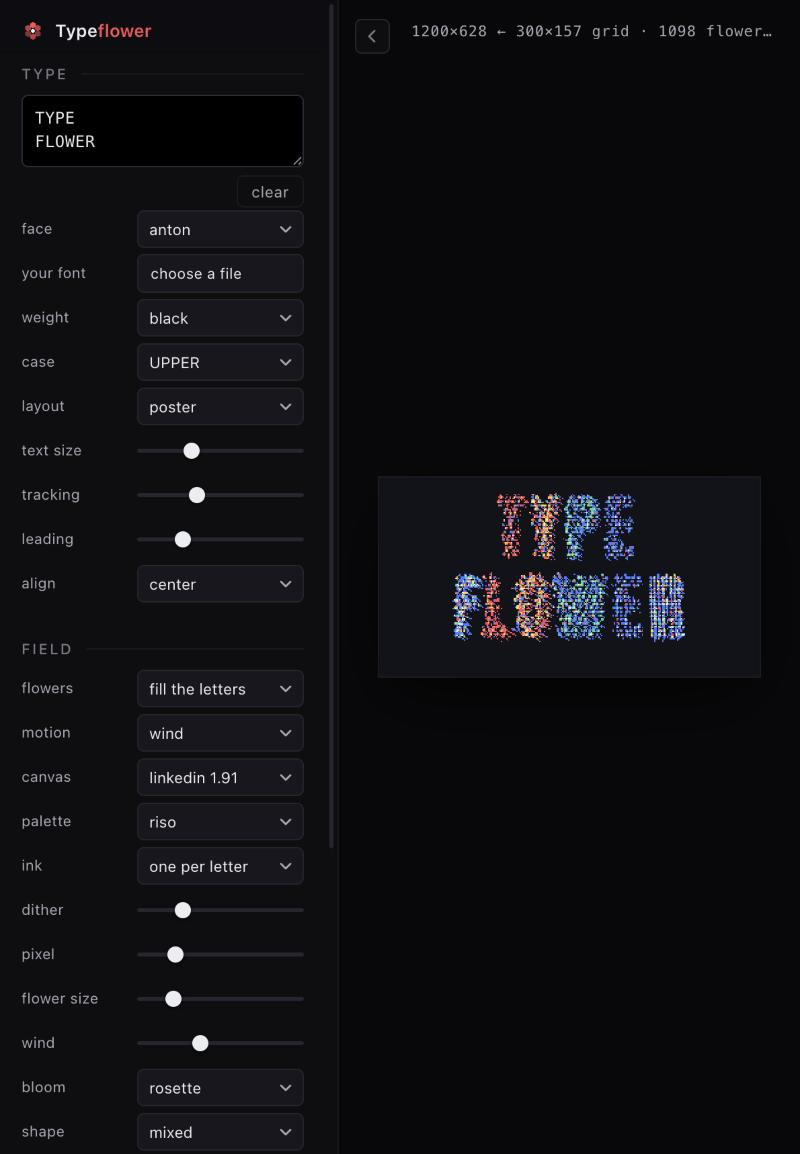
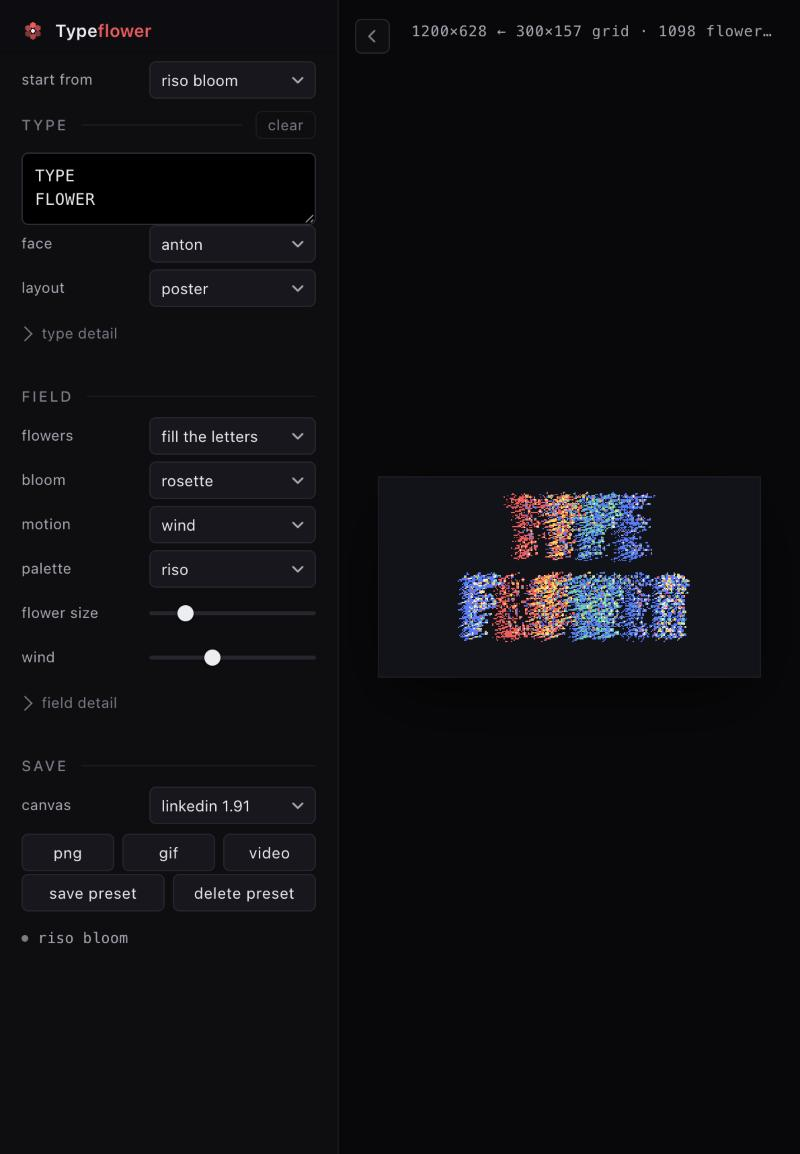
Simplify the panel: eleven decisions, the rest on request
Twenty-four controls were visible at once, which made a tool for making
posters read as a settings screen.

- a preset picker leads the panel, so the opening move is one choice
- type keeps text, face and layout; field keeps flowers, bloom, motion,
  palette, flower size and wind
- everything else moved into two native disclosures, "type detail" and
  "field detail", closed by default
- canvas size joined the export block, where it decides the output
- clear folded into the type heading instead of owning a row
- the empty preset option says "a preset…" rather than a bare dash

The panel now fits without scrolling. No control was removed, and presets
still read and write every one of them.

diff --git a/index.html b/index.html
@@ -89,7 +89,8 @@
   #ui h2 { display: flex; align-items: center; gap: 10px;
     margin: 24px 0 10px; font: 500 11px/1 var(--ui); letter-spacing: .14em;
     text-transform: uppercase; color: var(--fg-3); }
-  #ui h2::after { content: ""; flex: 1; height: 1px; background: var(--line-soft); }
+  #ui h2::after { content: ""; order: 1; flex: 1; height: 1px; background: var(--line-soft); }
+  #ui h2 button { order: 2; }
   #ui h2:first-of-type { margin-top: 4px; }
 
   #ui label { display: grid; grid-template-columns: 1fr 140px; gap: 10px;
@@ -124,10 +125,9 @@
   #pdel:hover:not([disabled]) { color: var(--accent); border-color: var(--accent-soft); }
   .btns { display: grid; grid-template-columns: 1fr 1fr; gap: 6px; margin-top: 2px; }
   .btns.three { grid-template-columns: repeat(3, 1fr); }
-  .btns.end { grid-template-columns: auto; justify-content: end; margin: 6px 0 2px; }
-  .btns.end button { height: 24px; padding: 0 10px; color: var(--fg-2);
-    background: transparent; border-color: var(--line-soft); }
-  .btns.end button:hover { color: var(--fg); background: var(--raised); }
+  #ui h2 button { height: 21px; padding: 0 8px; font-size: 11px; color: var(--fg-3);
+    background: transparent; border-color: var(--line-soft); letter-spacing: .02em;
+    text-transform: none; }
 
   #tap { width: 100%; min-height: 54px; padding: 8px 9px; resize: vertical;
     font: 12px/1.45 var(--mono); letter-spacing: .02em; caret-color: var(--accent);
@@ -161,6 +161,20 @@
 
   input[type=checkbox] { justify-self: start; width: 15px; height: 15px; margin: 0;
     accent-color: var(--accent); cursor: pointer; }
+
+  /* ---------- disclosure ---------- */
+  details { margin: 2px 0 4px; }
+  summary { display: flex; align-items: center; gap: 7px; height: 26px; cursor: pointer;
+    list-style: none; color: var(--fg-3); font-size: 11px; letter-spacing: .01em;
+    transition: color .14s var(--ease); }
+  summary::-webkit-details-marker { display: none; }
+  summary::before { content: ""; width: 7px; height: 7px; border-right: 1.3px solid currentColor;
+    border-bottom: 1.3px solid currentColor; transform: rotate(-45deg) translate(-1px, -1px);
+    transition: transform .18s var(--ease); }
+  details[open] summary::before { transform: rotate(45deg) translate(-1px, -1px); }
+  details[open] summary { color: var(--fg-2); }
+  details > label:first-of-type { margin-top: 4px; }
+  .lead { margin-bottom: 10px; }
 
   /* ---------- status ---------- */
   #status { display: flex; align-items: center; gap: 7px; min-height: 16px; margin-top: 12px;
@@ -228,65 +242,72 @@
     </svg>
     <b>Type<i>flower</i></b>
   </div>
-  <h2>type</h2>
+  <label class="lead" title="Load a saved look, then make it yours">start from <select id="preset"></select></label>
+
+  <h2>type <button id="clear" title="Empty the text">clear</button></h2>
     <textarea id="tap" rows="2" placeholder="type here…" autocomplete="off" spellcheck="false"></textarea>
-    <div class="btns end"><button id="clear" title="Empty the text">clear</button></div>
     <label title="Typeface used to set the text">face <select id="face"></select></label>
-    <label title="Load a font from your machine — or drop one anywhere on the page">your font
-      <span class="file"><span id="fontname">choose a file</span>
-        <input id="fontfile" type="file" accept=".ttf,.otf,.woff,.woff2,font/*" multiple></span></label>
-    <label>weight <select id="weight">
-      <option value="400">regular</option><option value="700">bold</option>
-      <option value="900" selected>black</option></select></label>
-    <label>case <select id="case">
-      <option value="upper">UPPER</option><option value="as">as typed</option>
-      <option value="lower">lower</option></select></label>
     <label title="Poster fits one or two lines to the canvas; paragraph wraps a block of text">layout <select id="layout">
       <option value="poster">poster</option><option value="para">paragraph</option></select></label>
-    <label title="Text size, used in paragraph layout (poster layout fits to the canvas)">text size <input id="tsize" type="range" min="3" max="16" step="1" value="7"></label>
-    <label title="Letter-spacing">tracking <input id="track" type="range" min="-8" max="30" step="1" value="5"></label>
-    <label title="Line height">leading <input id="lead" type="range" min="80" max="200" step="5" value="108"></label>
-    <label>align <select id="align">
-      <option value="center">center</option><option value="left">left</option>
-      <option value="right">right</option></select></label>
+    <details>
+      <summary>type detail</summary>
+      <label title="Load a font from your machine — or drop one anywhere on the page">your font
+        <span class="file"><span id="fontname">choose a file</span>
+          <input id="fontfile" type="file" accept=".ttf,.otf,.woff,.woff2,font/*" multiple></span></label>
+      <label>weight <select id="weight">
+        <option value="400">regular</option><option value="700">bold</option>
+        <option value="900" selected>black</option></select></label>
+      <label>case <select id="case">
+        <option value="upper">UPPER</option><option value="as">as typed</option>
+        <option value="lower">lower</option></select></label>
+      <label>align <select id="align">
+        <option value="center">center</option><option value="left">left</option>
+        <option value="right">right</option></select></label>
+      <label title="Text size, used in paragraph layout (poster layout fits to the canvas)">text size <input id="tsize" type="range" min="3" max="16" step="1" value="7"></label>
+      <label title="Letter-spacing">tracking <input id="track" type="range" min="-8" max="30" step="1" value="5"></label>
+      <label title="Line height">leading <input id="lead" type="range" min="80" max="200" step="5" value="108"></label>
+    </details>
+
   <h2>field</h2>
     <label title="Grow flowers inside the letters, or fill the canvas and cut the letters out of it">flowers <select id="mode">
       <option value="bloom">fill the letters</option><option value="knock">cut letters out</option></select></label>
-    <label title="How the flowers move. Every preset keeps some wind in it">motion <select id="motion">
-      <option value="wind">wind</option><option value="wave">wave</option>
-      <option value="bounce">bounce</option><option value="swirl">swirl</option>
-      <option value="jitter">jitter</option><option value="storm">storm</option></select></label>
-    <label title="Output size. Exports render at this size, whatever the window">canvas <select id="size"></select></label>
-    <label>palette <select id="pal"></select></label>
-    <label title="How palette colours are handed out. One per letter reads best">ink <select id="ink">
-      <option value="scatter">scatter</option><option value="letter">one per letter</option>
-      <option value="flow">across the line</option></select></label>
-    <label title="0 keeps letter edges clean; 100 stipples them with the full dither pattern">dither <input id="crisp" type="range" min="0" max="100" step="5" value="30"></label>
-    <label title="Size of one dithered pixel in the export">pixel <input id="pix" type="range" min="1" max="6" step="1" value="2"></label>
-    <label title="Spacing of the flower grid — bigger means fewer, larger flowers">flower size <input id="cell" type="range" min="4" max="20" step="1" value="7"></label>
-    <label title="Strength of the wind, and of every motion built on it">wind <input id="wind" type="range" min="0" max="30" step="1" value="11"></label>
     <label title="How each flower is built. Seed is a single mark and reads best on a fine grid">bloom <select id="bloom">
       <option value="daisy">daisy</option><option value="aster">aster</option>
       <option value="tulip">tulip</option><option value="berry">berry</option>
       <option value="rosette">rosette</option><option value="seed">seed</option>
       <option value="mix">mixed</option></select></label>
-    <label title="Geometry of the petals">shape <select id="shape">
-      <option value="mix">mixed</option><option value="3">triangle</option>
-      <option value="4">square</option><option value="6">hexagon</option>
-      <option value="0">round</option></select></label>
-    <label title="Draw a stem under each flower">stems <input id="stems" type="checkbox" checked></label>
-    <label title="Ring each flower in the background colour so neighbours stay separate">halo <input id="halo" type="checkbox" checked></label>
-  <h2>presets</h2>
-    <label title="Load a saved look. Your own presets are stored in this browser">preset <select id="preset"></select></label>
-    <div class="btns">
-      <button id="psave" title="Save every control as a named preset">save as…</button>
-      <button id="pdel" title="Delete the selected preset">delete</button>
-    </div>
-  <h2>export</h2>
+    <label title="How the flowers move. Every preset keeps some wind in it">motion <select id="motion">
+      <option value="wind">wind</option><option value="wave">wave</option>
+      <option value="bounce">bounce</option><option value="swirl">swirl</option>
+      <option value="jitter">jitter</option><option value="storm">storm</option></select></label>
+    <label>palette <select id="pal"></select></label>
+    <label title="Spacing of the flower grid — bigger means fewer, larger flowers">flower size <input id="cell" type="range" min="4" max="20" step="1" value="7"></label>
+    <label title="Strength of the wind, and of every motion built on it">wind <input id="wind" type="range" min="0" max="30" step="1" value="11"></label>
+    <details>
+      <summary>field detail</summary>
+      <label title="How palette colours are handed out. One per letter reads best">ink <select id="ink">
+        <option value="scatter">scatter</option><option value="letter">one per letter</option>
+        <option value="flow">across the line</option></select></label>
+      <label title="Geometry of the petals">shape <select id="shape">
+        <option value="mix">mixed</option><option value="3">triangle</option>
+        <option value="4">square</option><option value="6">hexagon</option>
+        <option value="0">round</option></select></label>
+      <label title="0 keeps letter edges clean; 100 stipples them with the full dither pattern">dither <input id="crisp" type="range" min="0" max="100" step="5" value="30"></label>
+      <label title="Size of one dithered pixel in the export">pixel <input id="pix" type="range" min="1" max="6" step="1" value="2"></label>
+      <label title="Draw a stem under each flower">stems <input id="stems" type="checkbox" checked></label>
+      <label title="Ring each flower in the background colour so neighbours stay separate">halo <input id="halo" type="checkbox" checked></label>
+    </details>
+
+  <h2>save</h2>
+    <label title="Output size. Exports render at this size, whatever the window">canvas <select id="size"></select></label>
     <div class="btns three">
       <button id="save" title="Save a still at the canvas size">png</button>
       <button id="gif" title="Record a looping gif, about 2.3 seconds">gif</button>
       <button id="vid" title="Record 5 seconds of mp4, or webm where mp4 is unsupported">video</button>
+    </div>
+    <div class="btns">
+      <button id="psave" title="Save every control as a named preset">save preset</button>
+      <button id="pdel" title="Delete the selected preset">delete preset</button>
     </div>
     <span id="status"></span>
 </div>
@@ -1031,7 +1052,7 @@ function applyState(st) {
 function fillPresetMenu(select) {
   const ps = document.getElementById('preset');
   ps.textContent = '';
-  ps.appendChild(new Option('\u2014', ''));
+  ps.appendChild(new Option('a preset\u2026', ''));
   const add = (label, names) => {
     if (!names.length) return;
     const g = document.createElement('optgroup'); g.label = label;

diff --git a/README.md b/README.md
@@ -29,12 +29,16 @@ Nothing is a filter over a bitmap — the letters are typeset, sampled and rebui
 
 ## Controls
 
+The panel asks for a handful of decisions and hides the rest until you want them.
+
 | Group | What it does |
 |---|---|
-| **type** | Text, 8 system faces plus 10 web faces, weight, case, poster or paragraph layout, tracking, leading, alignment |
-| **field** | Flowers fill the letters or get cut out of a full field; 6 motion presets; canvas size; palette; ink strategy; dither amount; pixel size; flower size; wind; 6 flower species; petal shape; stems; halos |
-| **presets** | Four built-in looks, plus your own saved to this browser |
-| **export** | PNG, GIF, MP4 — all at the canvas size, not the window size |
+| **start from** | A built-in look, or one of your own, as the opening move |
+| **type** | Your text, the face, poster or paragraph |
+| **field** | Flowers fill the letters or get cut out of a full field; species; motion; palette; flower size; wind |
+| **save** | Canvas size, then PNG, GIF or MP4 — all at that size, not the window's |
+
+Two disclosures hold everything else. **type detail**: your own font, weight, case, alignment, text size, tracking, leading. **field detail**: ink strategy, petal shape, dither amount, pixel size, stems, halos.
 
 Press `⌘\` (or `Ctrl+\`) to hide the panel and give the canvas the whole window.
 
